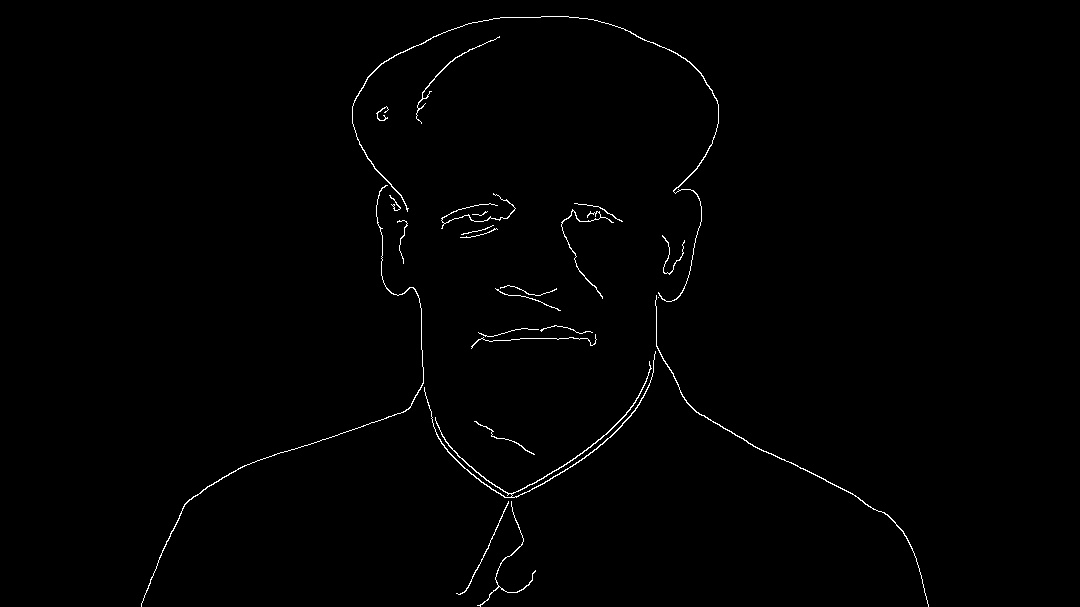
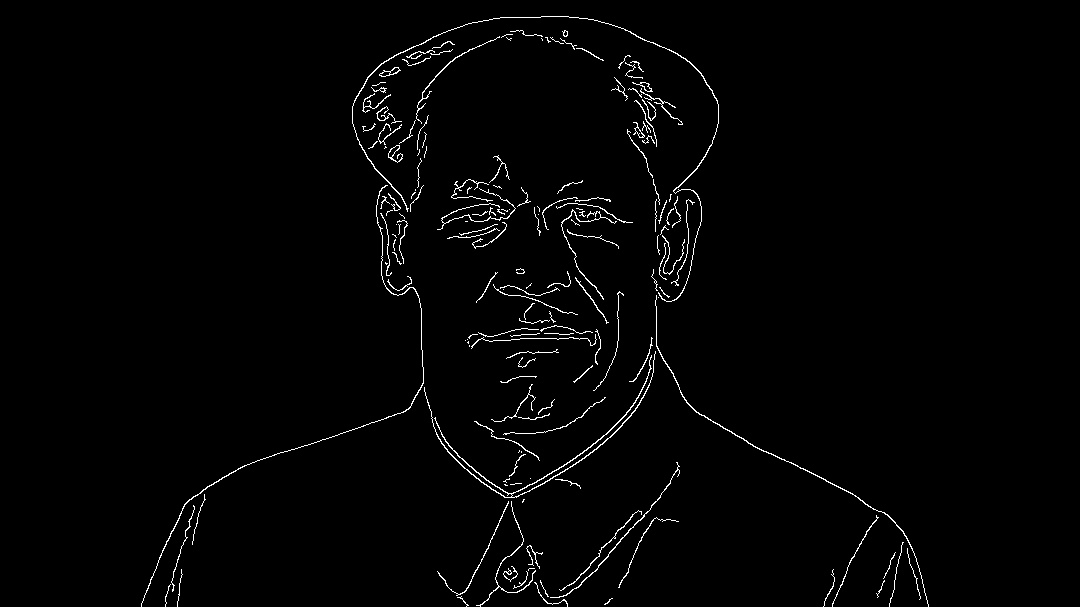
Made some changes....

diff --git a/Day_6-7.py b/Day_6-7.py
@@ -1,5 +1,6 @@
 import cv2
 import os
+import numpy as np
 
 # Create output directory if it doesn't exist
 os.makedirs("output", exist_ok=True)
@@ -21,19 +22,31 @@ else:
     blurred = cv2.GaussianBlur(grayscale, (7, 7), 0)
     cv2.imwrite("output/blurred_grayscale.jpg", blurred)
 
-    # Apply Canny Edge Detection
-    edges = cv2.Canny(blurred, 50, 150)
+    # Apply more detailed Canny Edge Detection (lower thresholds)
+    edges = cv2.Canny(blurred, 10, 70)
     cv2.imwrite("output/canny_edges.jpg", edges)
 
     # Apply Binary Thresholding
-    _, thresholded = cv2.threshold(grayscale, 127, 255, cv2.THRESH_BINARY)
+    _, thresholded = cv2.threshold(grayscale, 109, 224, cv2.THRESH_BINARY)
     cv2.imwrite("output/binary_threshold.jpg", thresholded)
 
-    # Display results (optional)
-    cv2.imshow("Original Image", original)
-    cv2.imshow("Grayscale", grayscale)
-    cv2.imshow("Blurred Grayscale", blurred)
-    cv2.imshow("Canny Edges", edges)
-    cv2.imshow("Binary Threshold", thresholded)
+    # --- Create 2x2 Grid Image ---
+    grayscale_bgr = cv2.cvtColor(grayscale, cv2.COLOR_GRAY2BGR)
+    blurred_bgr = cv2.cvtColor(blurred, cv2.COLOR_GRAY2BGR)
+    edges_bgr = cv2.cvtColor(edges, cv2.COLOR_GRAY2BGR)
+    thresholded_bgr = cv2.cvtColor(thresholded, cv2.COLOR_GRAY2BGR)
+
+    top_row = np.hstack((grayscale_bgr, blurred_bgr))
+    bottom_row = np.hstack((edges_bgr, thresholded_bgr))
+    grid_image = np.vstack((top_row, bottom_row))
+
+    # Resize both windows to 800x800
+    grid_resized = cv2.resize(grid_image, (1200, 650))
+    original_resized = cv2.resize(original, (1200, 650))
+
+    # --- Display ---
+    cv2.imshow("Original Image", original_resized)
+    cv2.imshow("Processed Results (2x2 Grid)", grid_resized)
+
     cv2.waitKey(0)
     cv2.destroyAllWindows()
